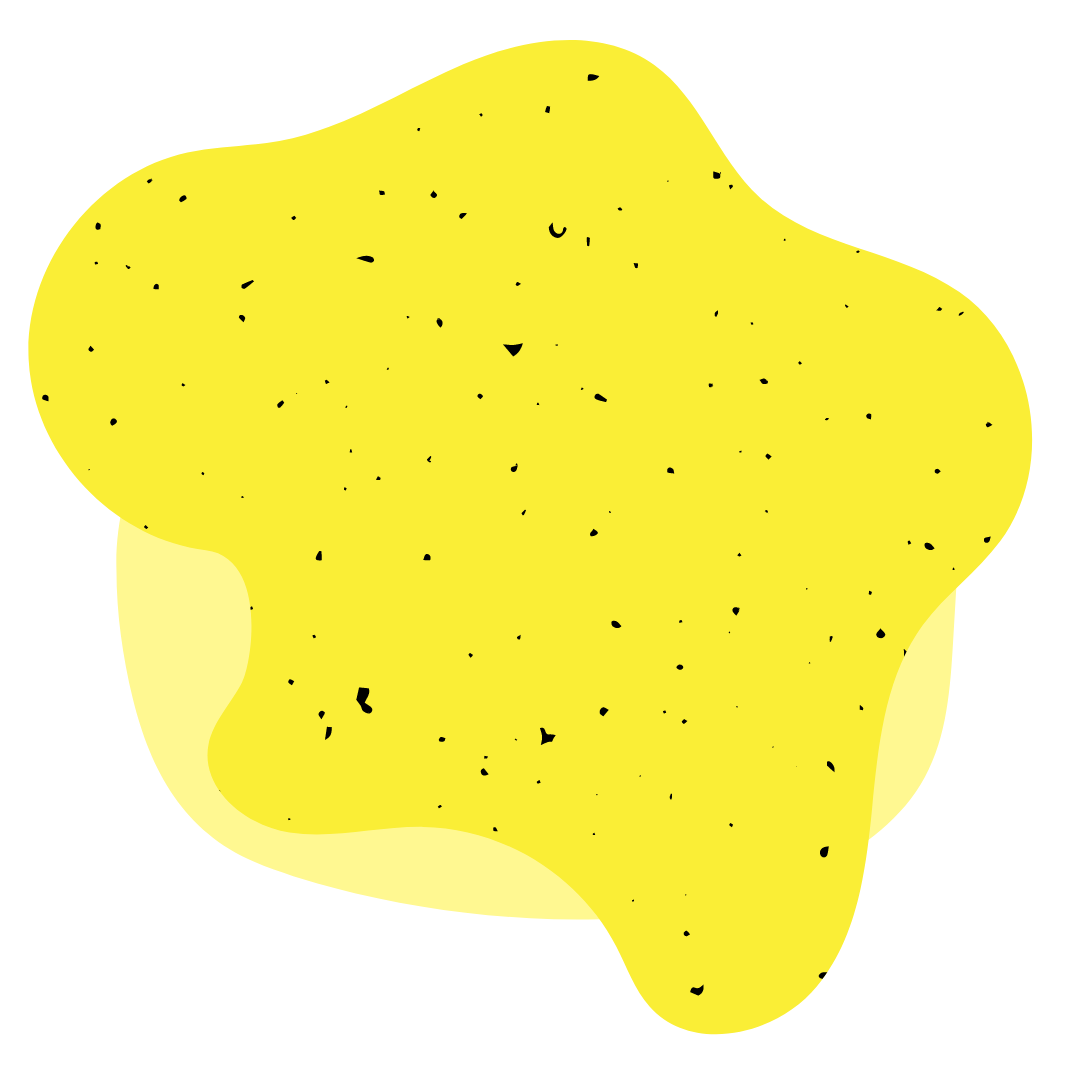
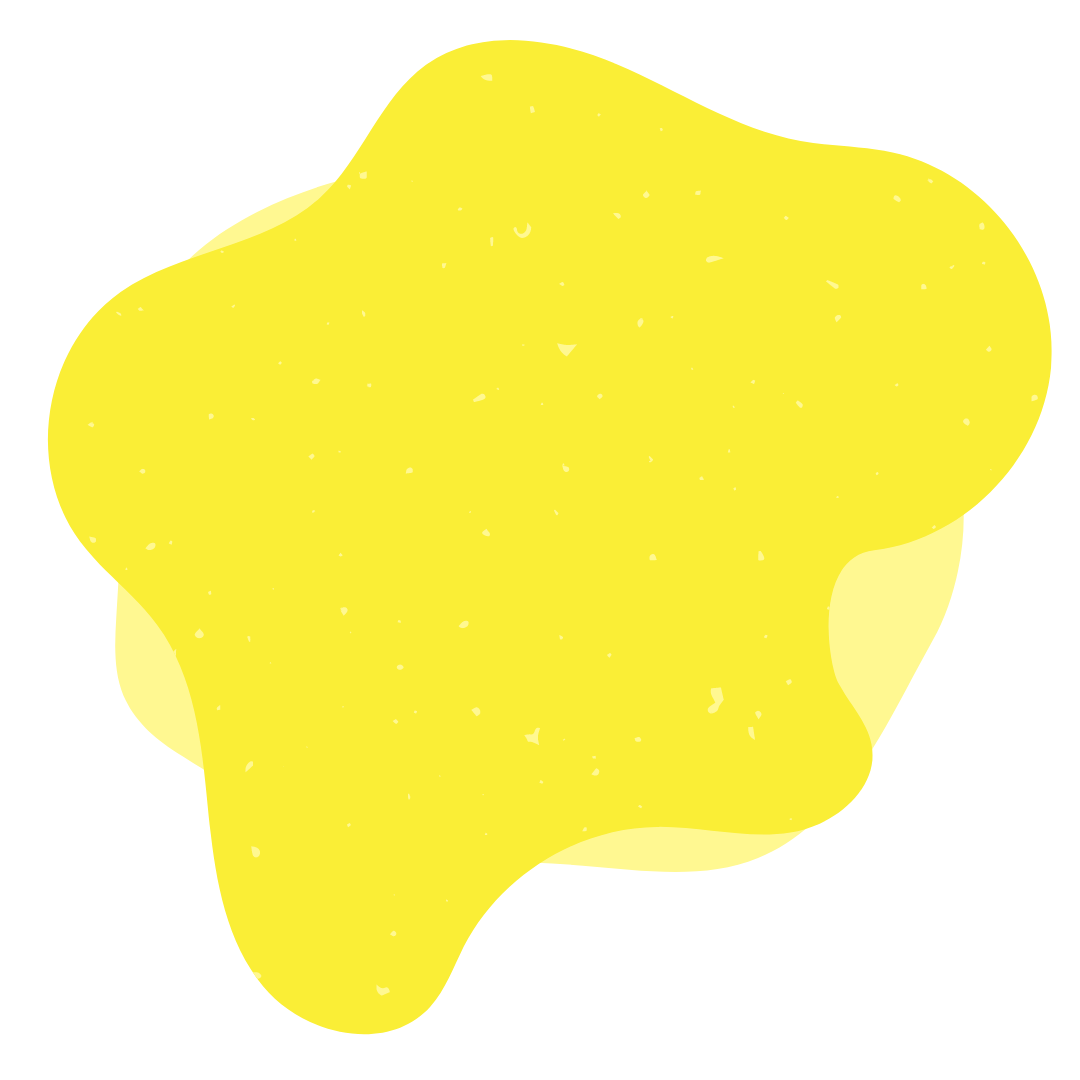
fix mobile detail view styles

diff --git a/src/views/Course/Course.css b/src/views/Course/Course.css
@@ -41,11 +41,13 @@
 }
 
 .course__instructor {
-	background-image: url("../../images/irregular-line.png");
+	background-image: url("../../images/irregular-paint-composed.png");
 	background-position: center;
 	background-repeat: no-repeat;
-	height: 400px;
+	background-size: cover;
+	min-height: 450px;
 	padding: 1rem;
+	color: black;
 }
 
 .course__instructor__thumbnail {
@@ -53,6 +55,11 @@
 	height: 100px;
 	object-fit: cover;
 	width: 100px;
+}
+
+.course__instructor__text {
+	width: 80%;
+	margin: 0 auto;
 }
 
 .course__instructor__name {
@@ -71,8 +78,6 @@
 }
 
 .course__buttons {
-	position: relative;
-	bottom: 120px;
 	display: flex;
 	flex-wrap: wrap;
 	justify-content: center;
@@ -115,12 +120,8 @@
 		bottom: 70px;
 	}
 
-	.course-list__button--small {
-		width: 200px;
-	}
-
 	.course-list__button--small > .course-list__button__text {
-		font-size: 70%;
+		font-size: 40%;
 		font-weight: 700;
 	}
 

diff --git a/src/views/Home/Home.css b/src/views/Home/Home.css
@@ -9,6 +9,12 @@
 	padding: 1rem;
 }
 
+@media (max-width: 500px) {
+	.header--small {
+		font-size: 50%;
+	}
+}
+
 .header__title,
 .course__title,
 .title {
@@ -172,13 +178,13 @@
 	background-position: center;
 	background-repeat: no-repeat;
 	background-size: contain;
-	font-size: 90%;
 }
 
 .course-list__button--small {
 	height: 100px;
 	width: 100px;
 	background-image: none;
+	padding-left: 1rem;
 }
 
 .course-list__button--small > .course-list__button__text {
@@ -189,7 +195,6 @@
 .course-list__button--small:hover > .course-list__button__text,
 .navlink--active > .course-list__button__text {
 	color: var(--yellow);
-	font-size: 8px;
 	text-align: center;
 }
 

diff --git a/src/views/Course/Course.js b/src/views/Course/Course.js
@@ -116,7 +116,7 @@ const Course = ({ list, onClick }) => {
 								alt="Imagen de la encargada del taller"
 							/>
 
-							<div>
+							<div className="course__instructor__text">
 								<p className="course__instructor__name">{currentCourse.encargada}</p>
 								<p className="course__instructor__team">{currentCourse.equipo}</p>
 								<p className="course__instructor__descripcion">{currentCourse.descripcionTallerista}</p>

diff --git a/src/views/Calendar/Calendar.css b/src/views/Calendar/Calendar.css
@@ -83,6 +83,7 @@
 	cursor: auto;
 	margin: 0 auto;
 	padding: 1rem;
+	min-height: 250px;
 }
 
 .Calendar__header {
